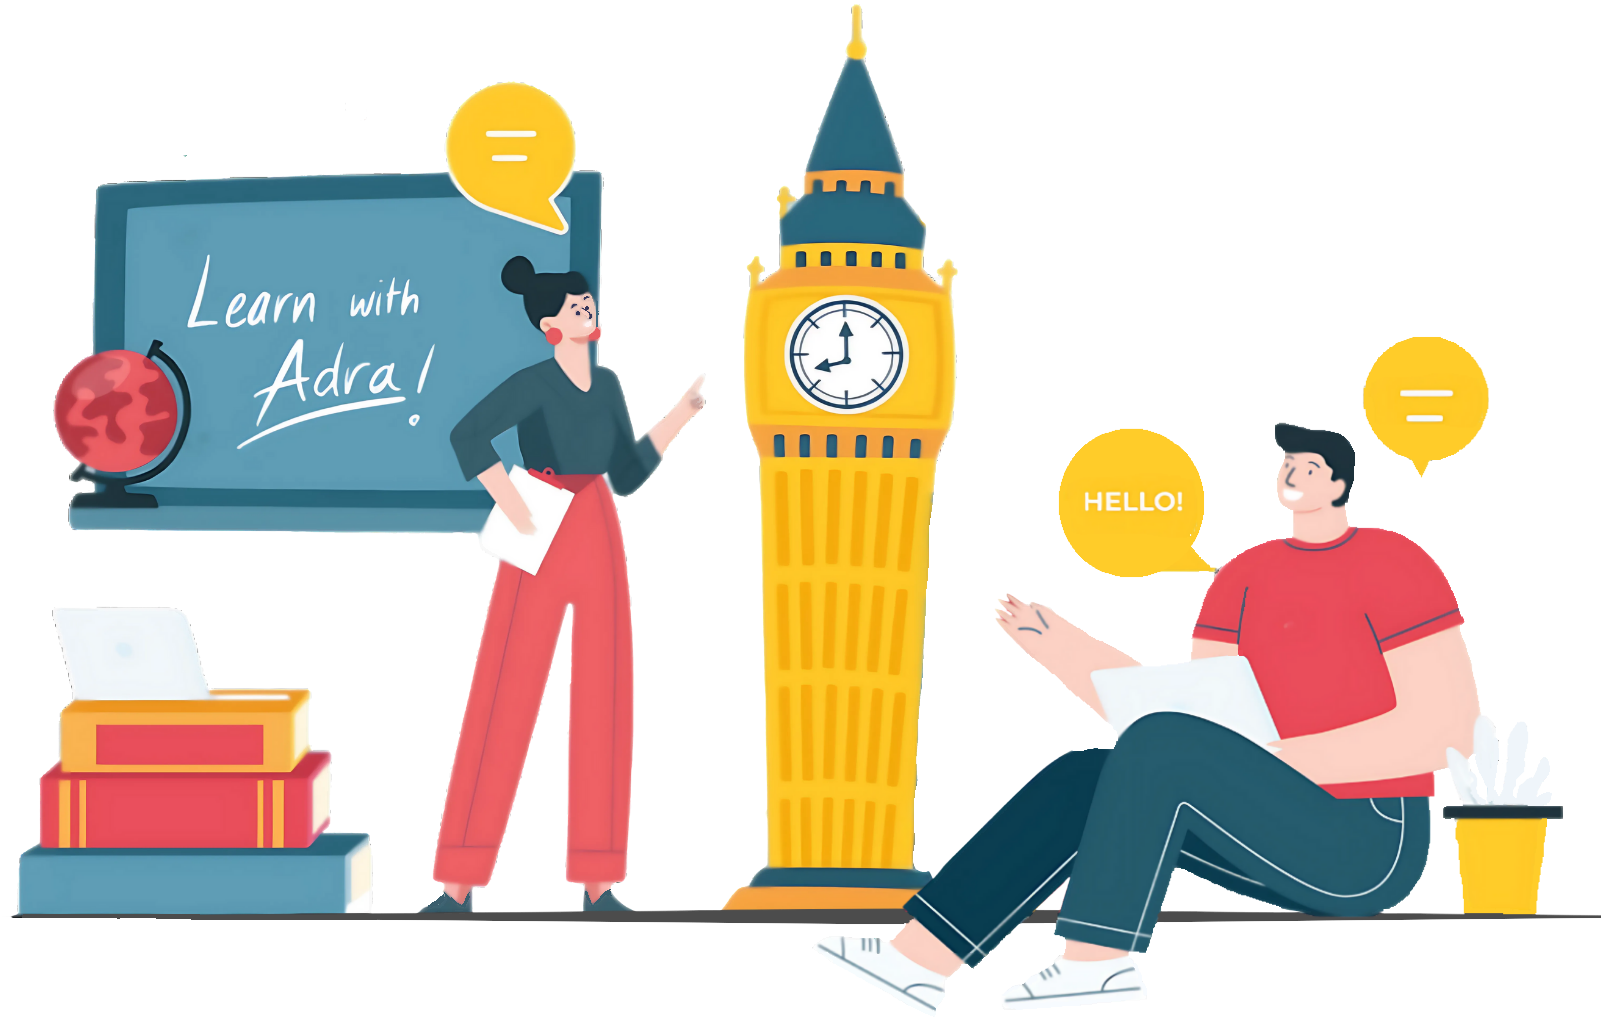
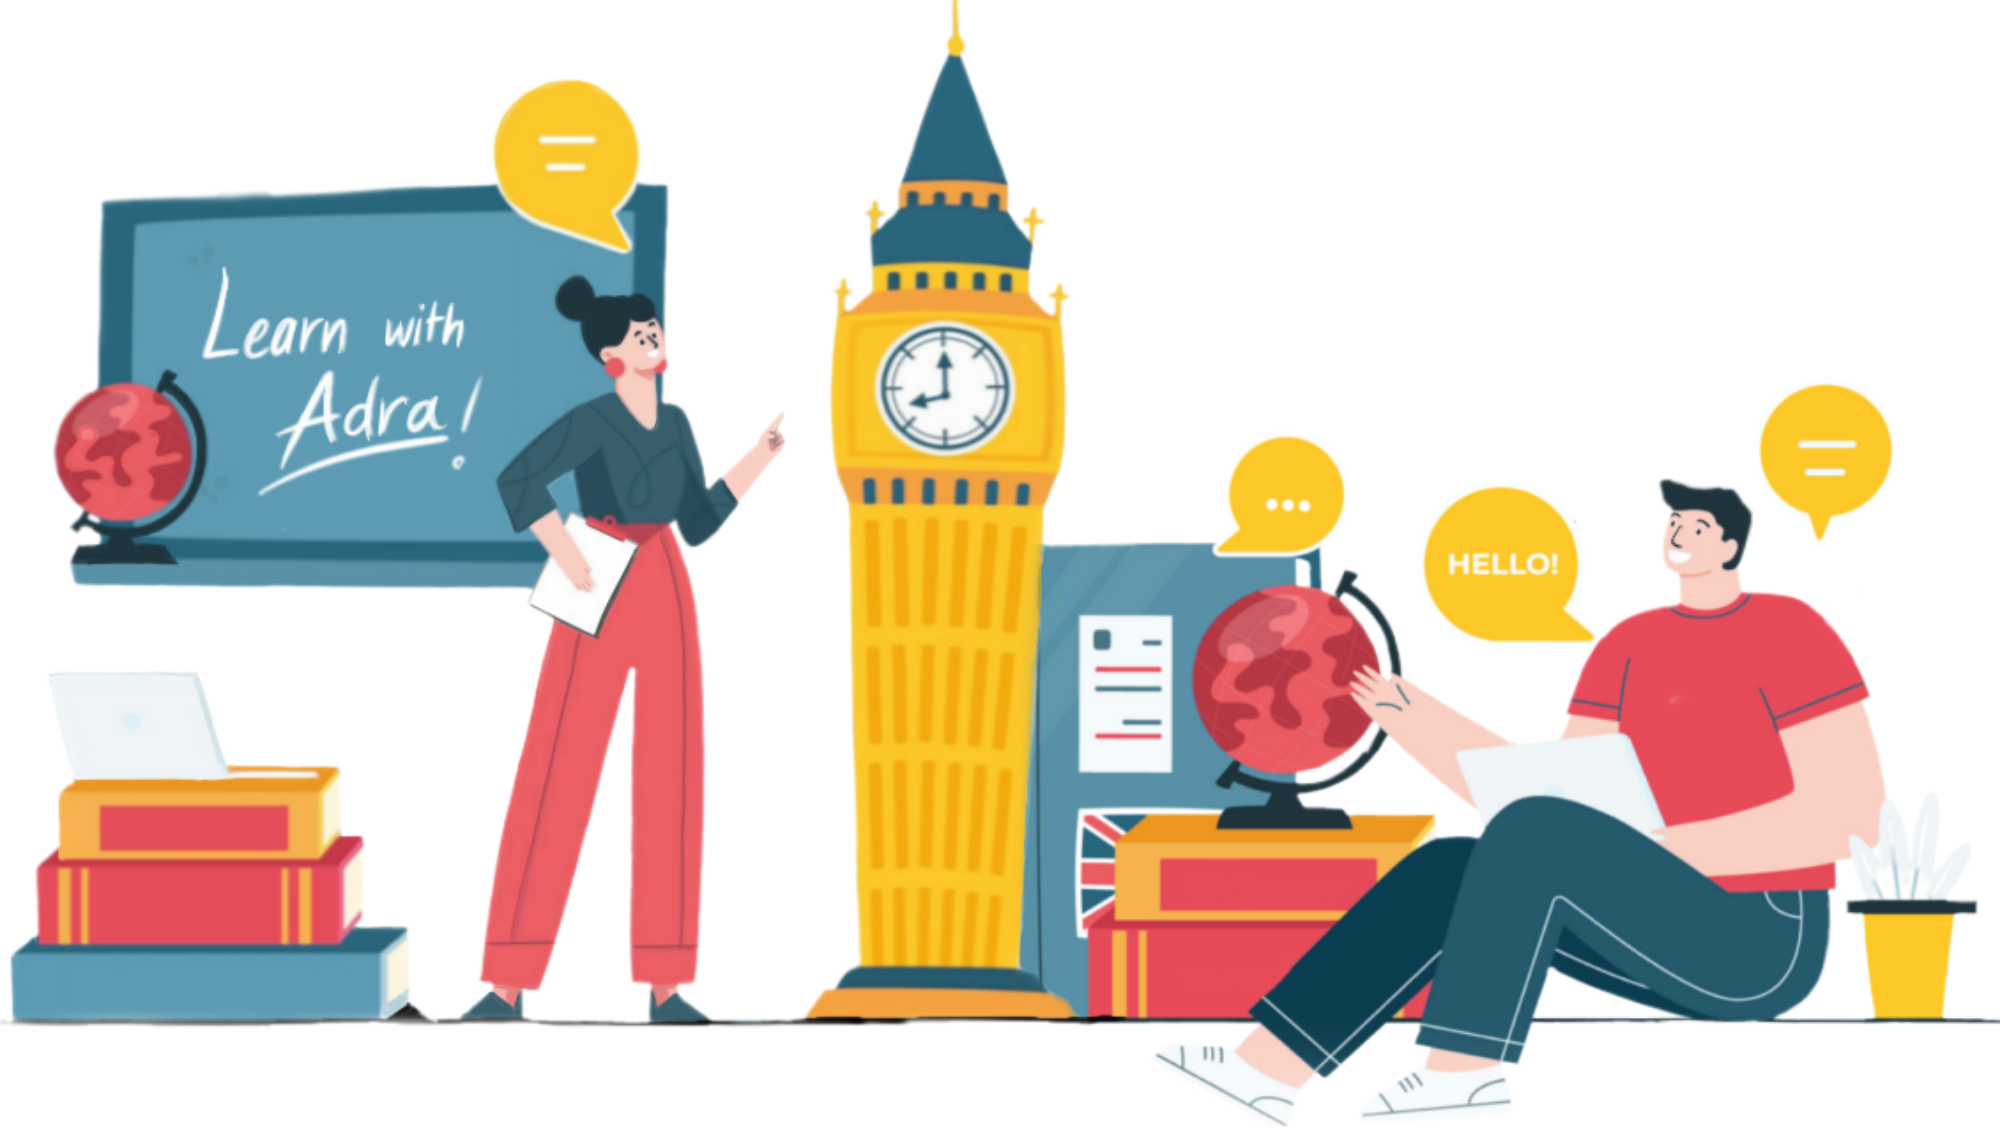
header background, photos and workshop photos updated and upscaled

diff --git a/src/objects/workshops.jsx b/src/objects/workshops.jsx
@@ -1,6 +1,6 @@
 //import workshop1 from "/adra-mini.png";
 import workshop2 from "/adra-group.png";
-import workshop1 from "/workshop-11.png";
+import workshop1 from "/workshop-111.png";
 //import workshop2 from "/workshop-2.jpeg";
 import workshop3 from "/workshop-3.jpg";
 import topBackground from "/workshops-top-background.png";

diff --git a/src/components/WorkshopsPage/Workshops.scss b/src/components/WorkshopsPage/Workshops.scss
@@ -98,7 +98,7 @@
   .workshop-photo {
     object-fit: cover;
     height: 530px;
-    width: 500px;
+    width: 550px;
     border-radius: 5px;
   }
 

diff --git a/src/components/header/Header.scss b/src/components/header/Header.scss
@@ -51,7 +51,7 @@
     z-index: 1;
     max-width: 825px;
     object-fit: cover;
-    height: 550px;
+    height: 500px;
     padding-top: 50px;
 }
 
